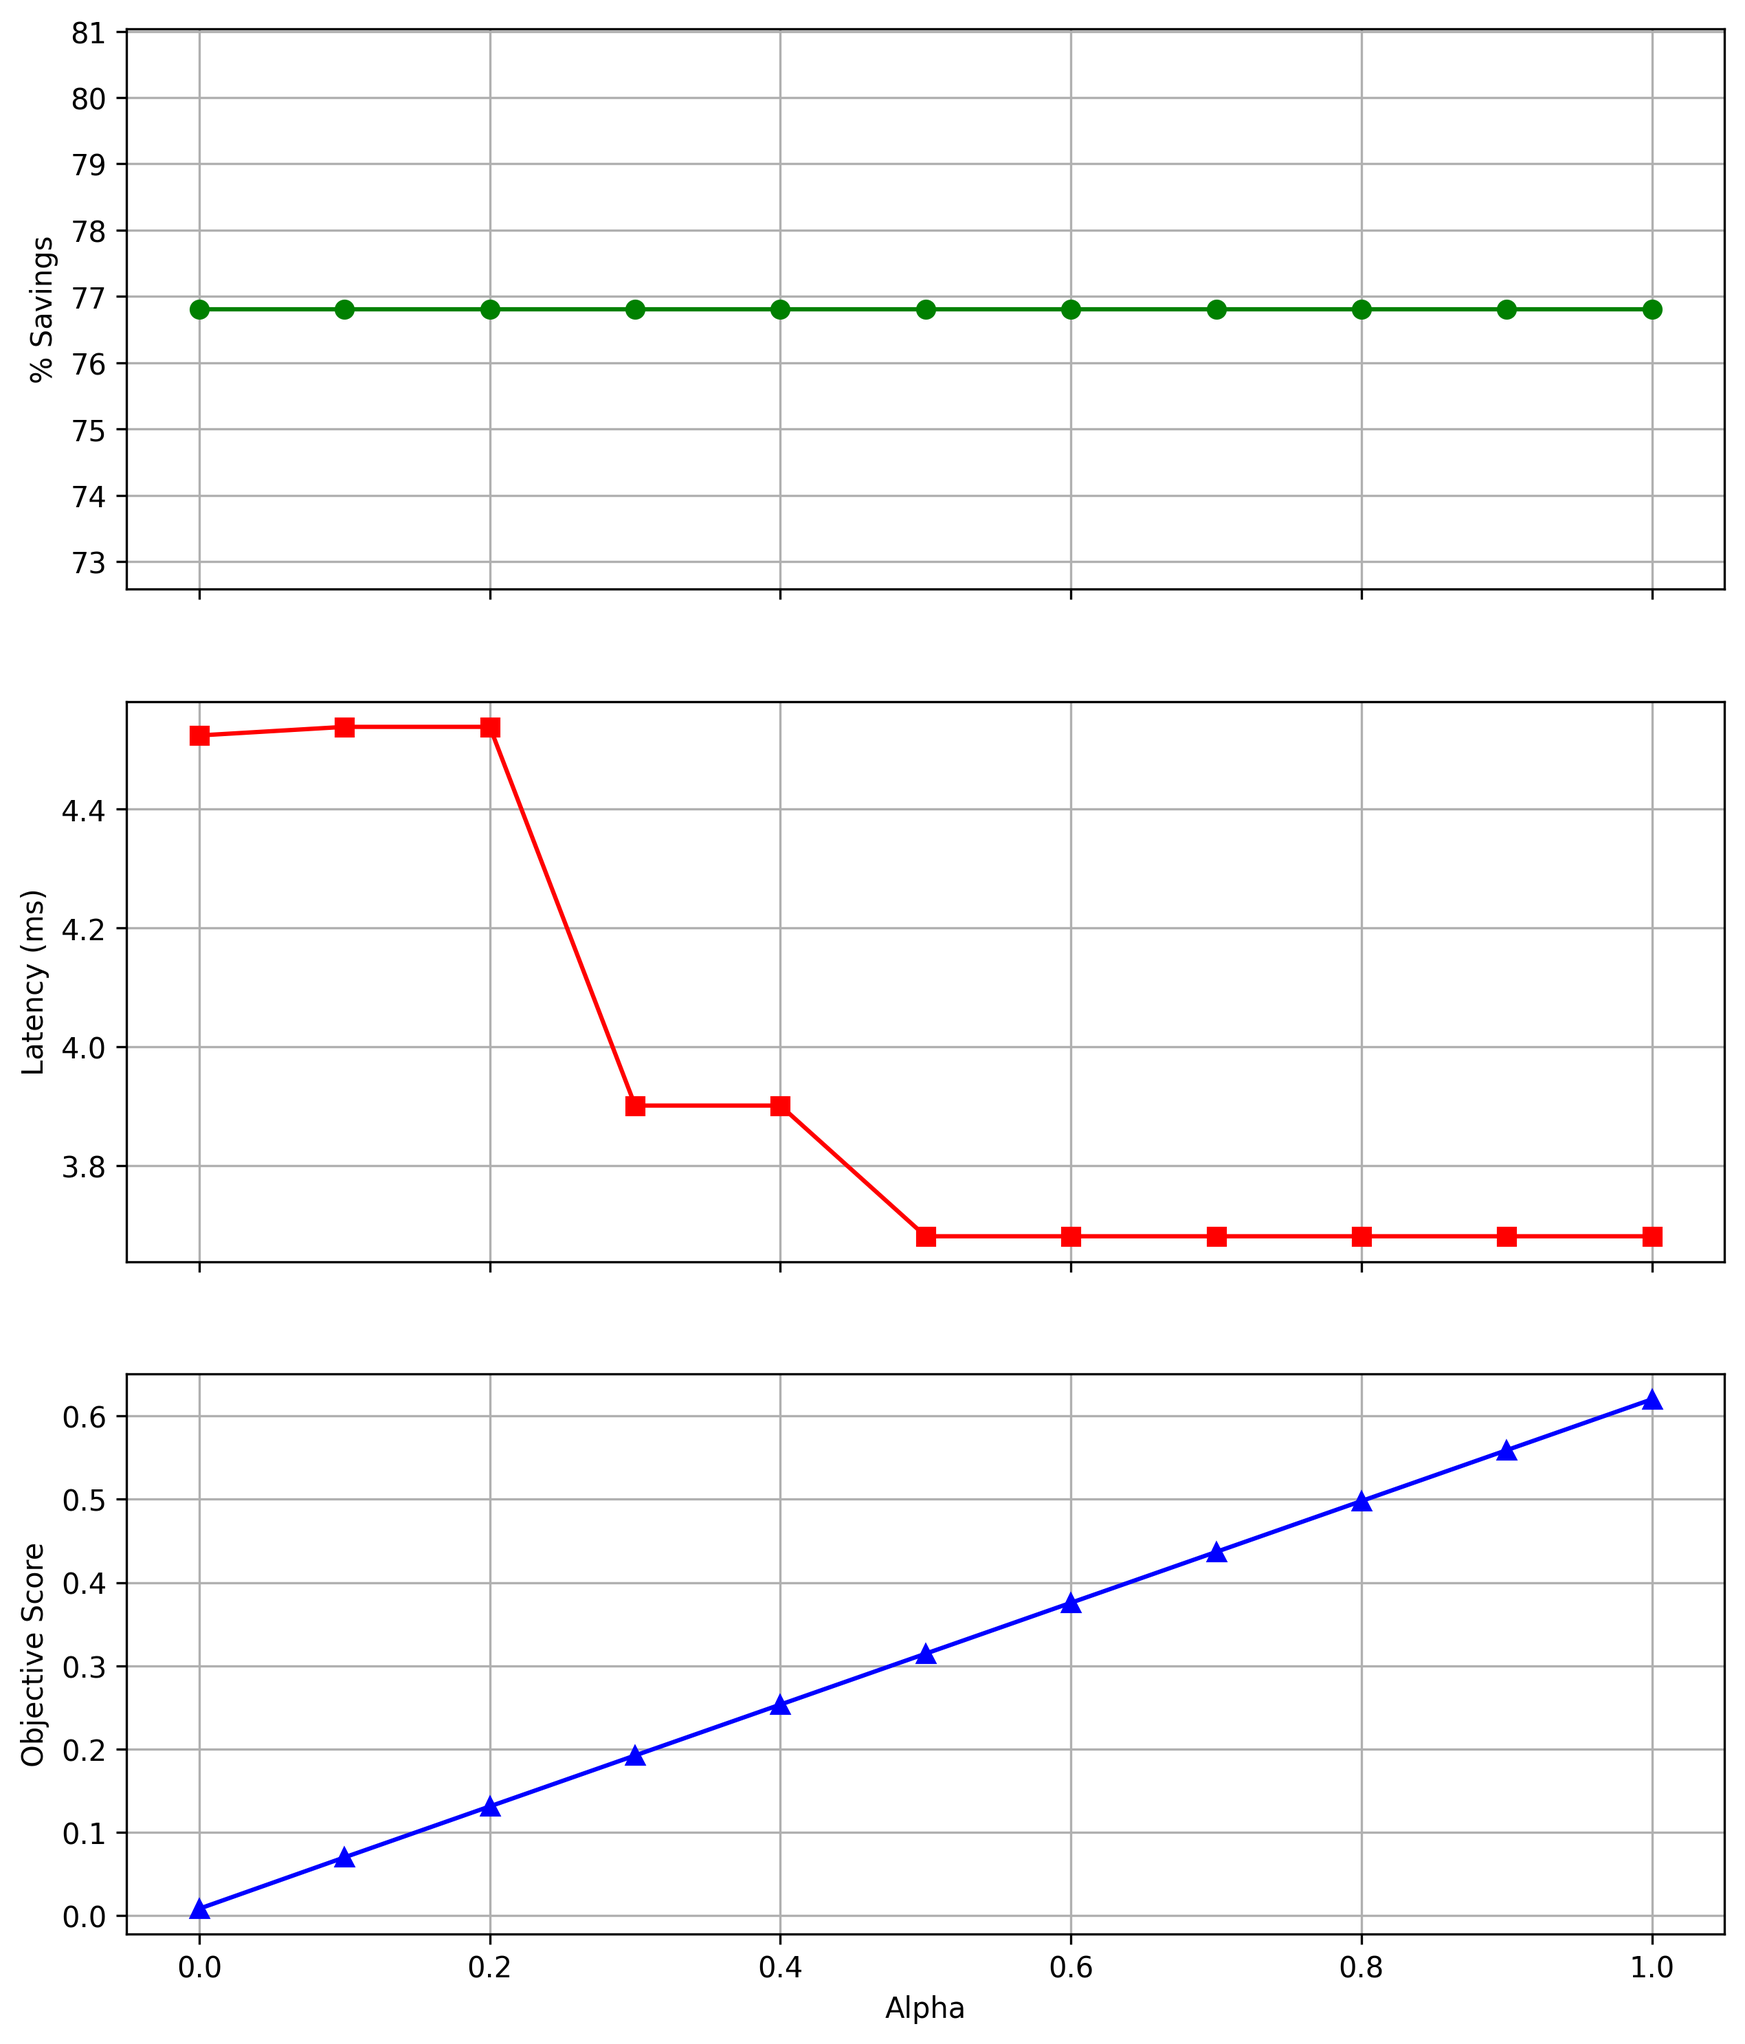
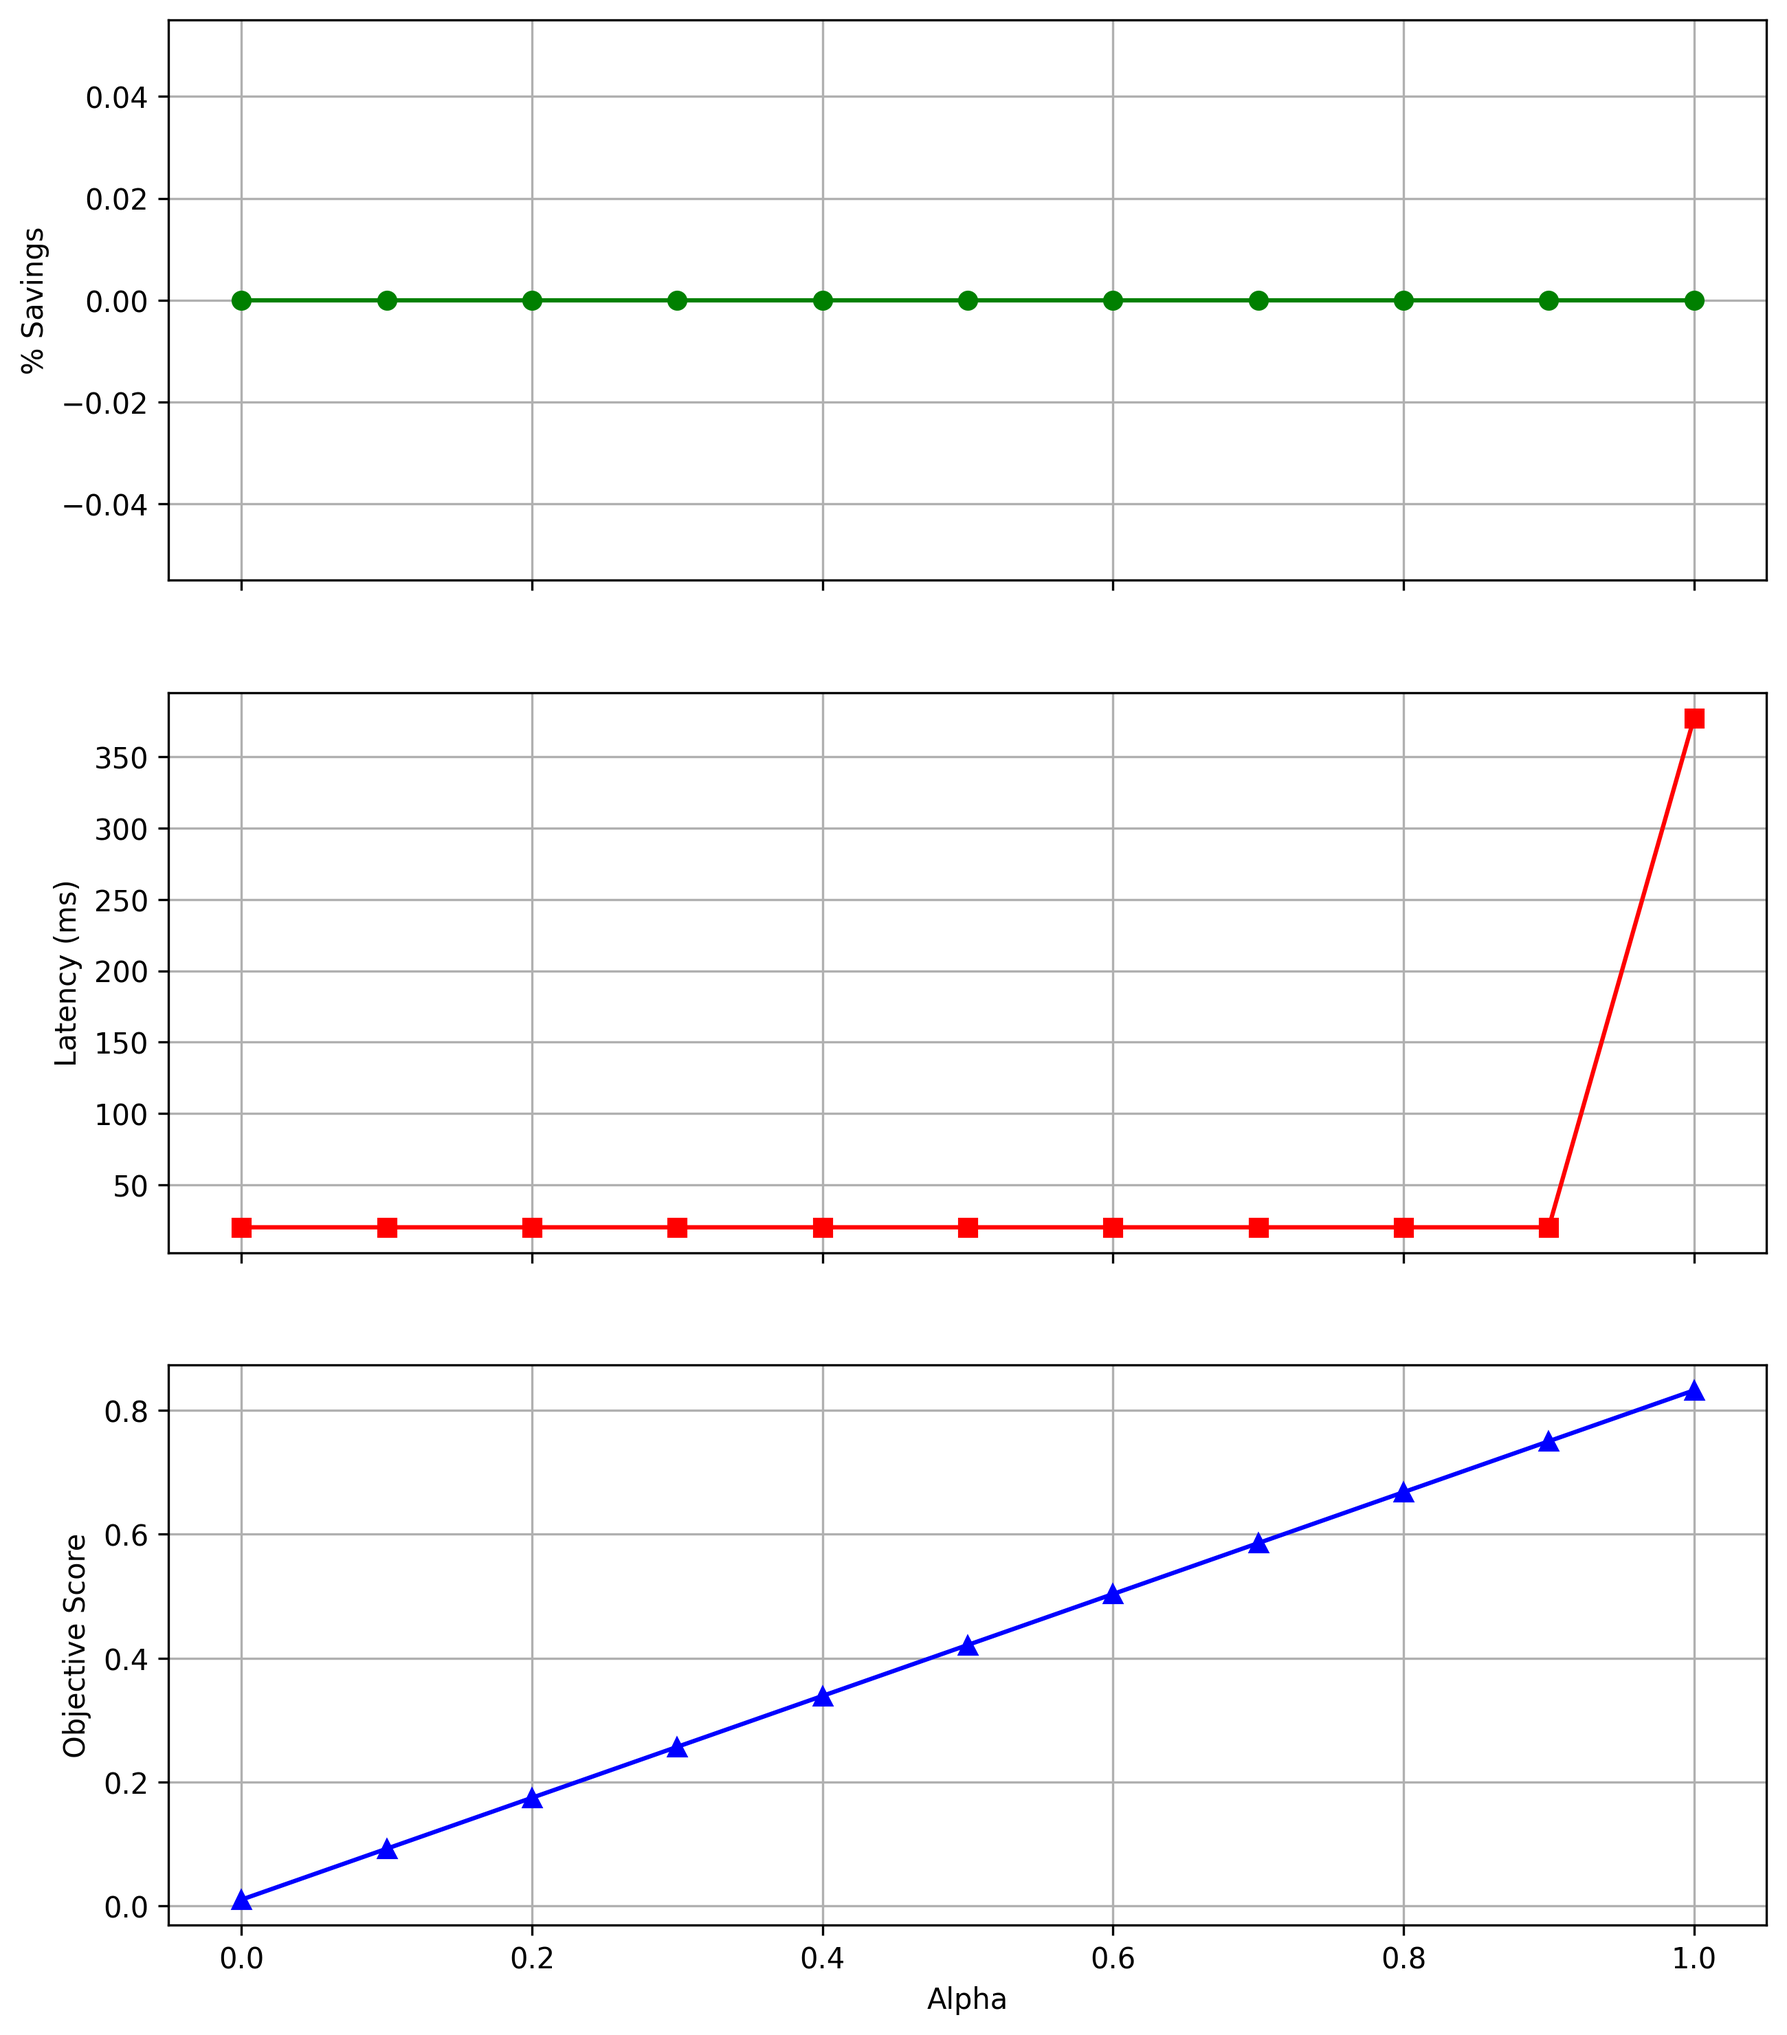
Auditoria

diff --git a/MCS.py b/MCS.py
@@ -524,9 +524,9 @@ if __name__ == '__main__':
     G = topo_loader.get_graph()
     
     # 3. EXTRACCIÓN DEL "WORST CASE" (Pico Histórico)
-    dataset_folder = "/mnt/mainvolume/Backup/PROJECTS/SDN-IP/Hybrid+Network/Dataset/TestSet/Nobel-Germany"
+    #dataset_folder = "/mnt/mainvolume/Backup/PROJECTS/SDN-IP/Hybrid+Network/Dataset/TestSet/Nobel-Germany"
     #dataset_folder = "/mnt/mainvolume/Backup/PROJECTS/SDN-IP/Hybrid+Network/Dataset/TestSet/Germany50"
-    #dataset_folder = "/mnt/mainvolume/Backup/PROJECTS/SDN-IP/Hybrid+Network/Dataset/TestSet/abilene"
+    dataset_folder = "/mnt/mainvolume/Backup/PROJECTS/SDN-IP/Hybrid+Network/Dataset/TestSet/abilene"
     if os.path.isdir(dataset_folder):
         # Esta función escanea todo y devuelve solo los valores máximos
         node_traffic_pps = topo_loader.get_peak_traffic_from_folder(dataset_folder)

diff --git a/getgraphs.py b/getgraphs.py
@@ -12,9 +12,9 @@ topo_loader = get_active_topology()
 G = topo_loader.get_graph()
 
 # 3. EXTRACCIÓN DEL "WORST CASE" (Pico Histórico)
-dataset_folder = "/mnt/mainvolume/Backup/PROJECTS/SDN-IP/Hybrid+Network/Dataset/TestSet/Nobel-Germany"
+#dataset_folder = "/mnt/mainvolume/Backup/PROJECTS/SDN-IP/Hybrid+Network/Dataset/TestSet/Nobel-Germany"
 #dataset_folder = "/mnt/mainvolume/Backup/PROJECTS/SDN-IP/Hybrid+Network/Dataset/TestSet/Germany50"
-#dataset_folder = "/mnt/mainvolume/Backup/PROJECTS/SDN-IP/Hybrid+Network/Dataset/TestSet/abilene"
+dataset_folder = "/mnt/mainvolume/Backup/PROJECTS/SDN-IP/Hybrid+Network/Dataset/TestSet/abilene"
 if os.path.isdir(dataset_folder):
     # Esta función escanea todo y devuelve solo los valores máximos
     node_traffic_pps = topo_loader.get_peak_traffic_from_folder(dataset_folder)

diff --git a/1.py b/1.py
@@ -8,7 +8,6 @@ BASE_DIR = "/mnt/mainvolume/Backup/PROJECTS/SDN-IP/Hybrid+Network/Dataset/TestSe
 PATHS = {
     "Abilene": os.path.join(BASE_DIR, "Abilene"),        # A mayúscula
     "Nobel-Germany": os.path.join(BASE_DIR, "Nobel-Germany")
-    "Germany50": os.path.join(BASE_DIR,"Germany50")
 }
 
 def run_audit():
